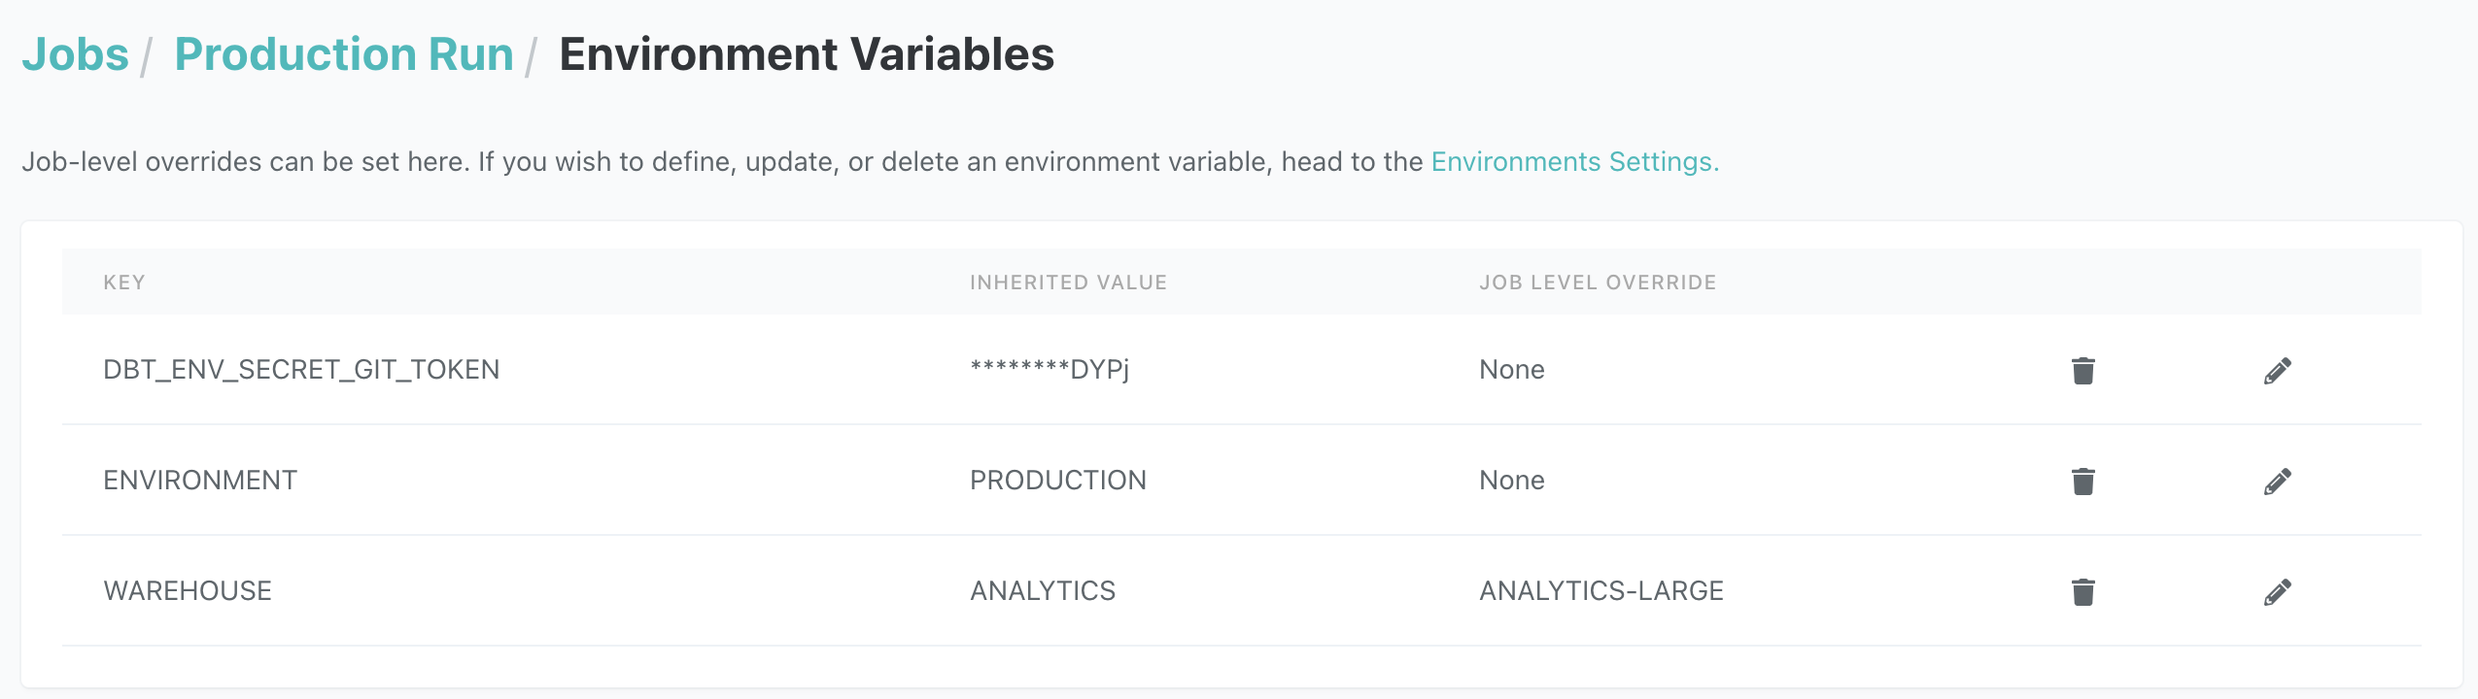
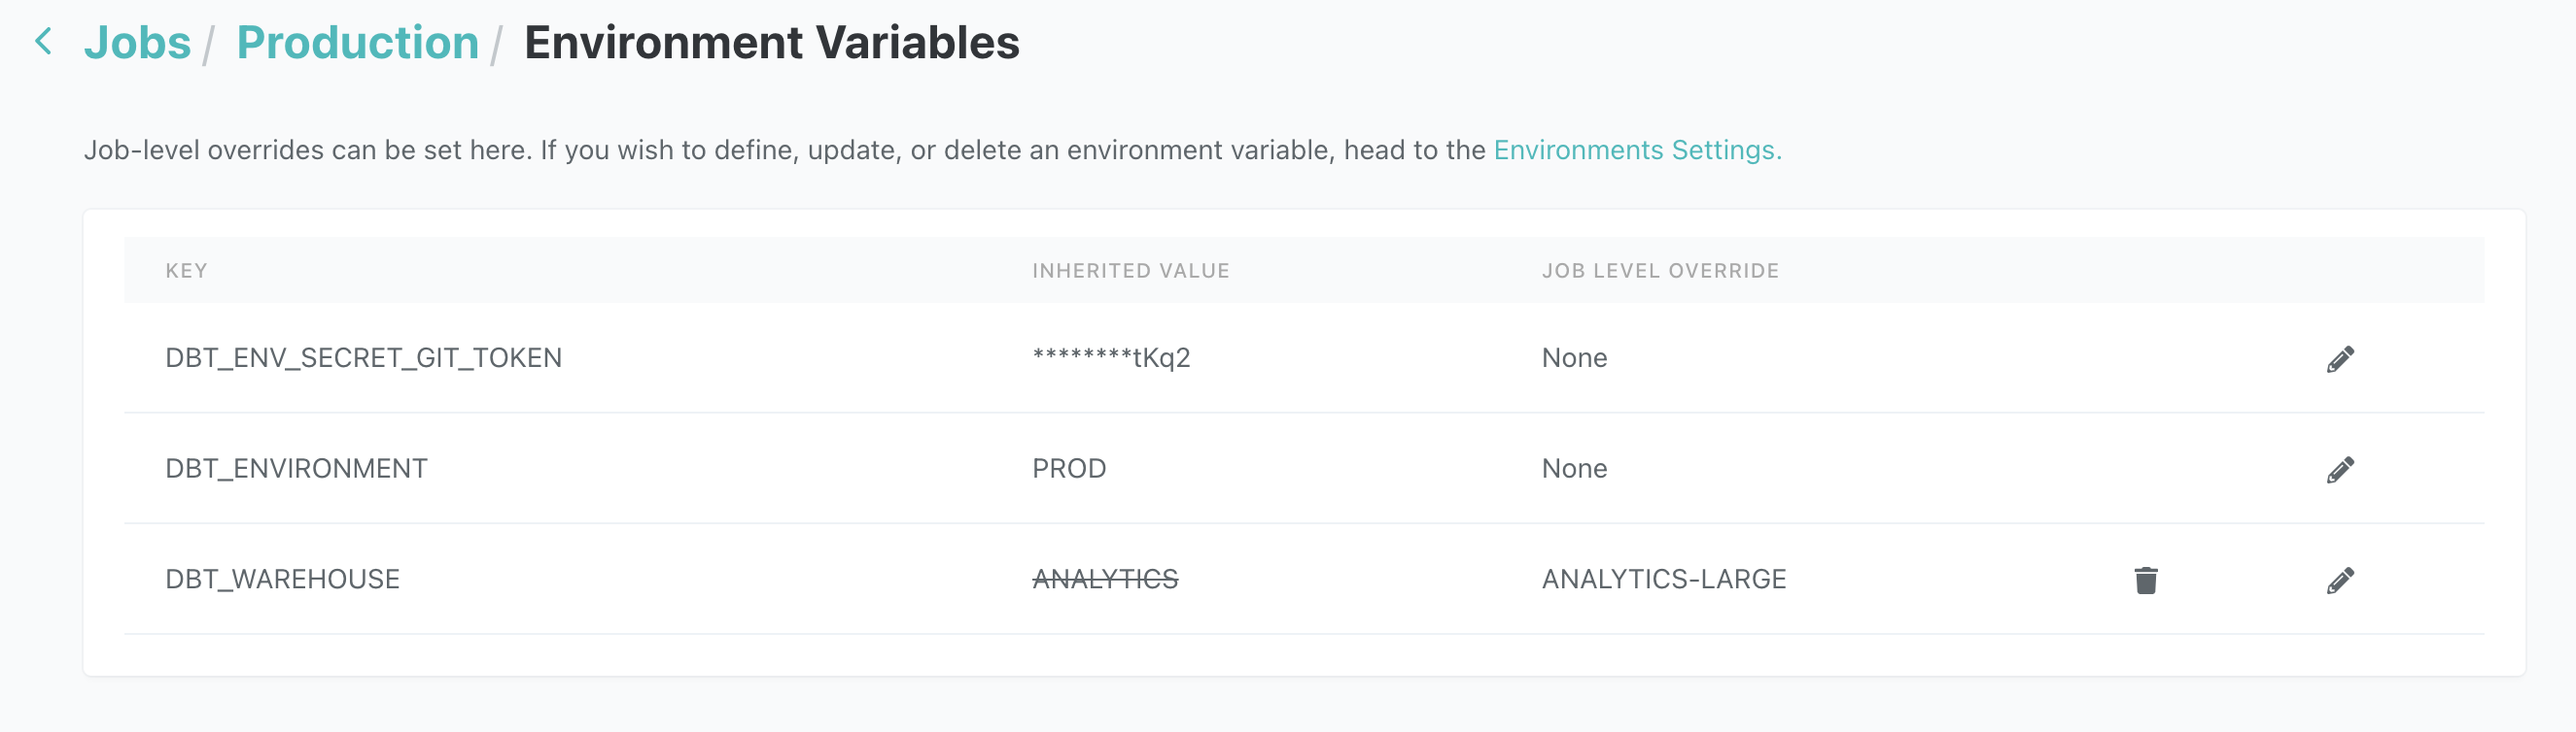
updated docs for naming convention

diff --git a/website/docs/docs/dbt-cloud/using-dbt-cloud/cloud-environment-variables.md b/website/docs/docs/dbt-cloud/using-dbt-cloud/cloud-environment-variables.md
@@ -1,5 +1,5 @@
 ---
-title: Environment variables
+title: Environment Variables
 id: "cloud-environment-variables"
 ---
 
@@ -8,7 +8,11 @@ Environment variables are currently a beta feature in dbt Cloud. If you are inte
 :::
 
 Environment variables can be used to customize the behavior of a dbt project depending on where the project is running. See the docs on
-[env_var](dbt-jinja-functions/env_var) for more information on how to call the jinja function `{{env_var('KEY','OPTIONAL_DEFAULT')}}` in your project code.
+[env_var](dbt-jinja-functions/env_var) for more information on how to call the jinja function `{{env_var('DBT_KEY','OPTIONAL_DEFAULT')}}` in your project code.
+
+:::info Environment Variable Naming and Prefixing
+Environment variables in dbt Cloud must be prefixed with either `DBT_` or `DBT_ENV_SECRET_`. Environment variables keys are uppercased and case sensitive. When referencing `{{env_var('DBT_KEY')}}` in your project's code, the key must match exactly the variable defined in dbt Cloud's UI.
+:::
 
 ### Setting and overriding environment variables
 
@@ -18,18 +22,18 @@ Environment variable values can be set in multiple places within dbt Cloud. As a
 
  <Lightbox src="/img/docs/dbt-cloud/using-dbt-cloud/Environment Variables/env-var-precdence.png" title="Environment variables order of precedence"/>
 
- - Default argument supplied to the `env_var` Jinja function in code
- - Project level default value
- - Environment level values
- - Personal and job override values
-    - Each developer can set a personal value to override values set in the developent environment 
-    - Job level values can override values set in deployment environments
+There are four levels of environment variables: 
+ 1. the optional default argument supplied to the `env_var` Jinja function in code
+ 2. a project-wide default value, which can be overridden at 
+ 3. the environment level, which can in turn be overridden again at 
+ 4. the job level (job override) or in the IDE for an individual dev (personal override).
+
 
 **Setting environment variables at the project and environment level**
 
 To set environment variables at the project and environment level, head over to the Environments section in your main navigation pane. You'll see a view to list all your environments and a view to set and update environment variables. Make sure you're in the environment variable view.
 
-<Lightbox src="/img/docs/dbt-cloud/using-dbt-cloud/Environment Variables/Environment Variables.gif" title="Environment variables tab"/>
+<Lightbox src="/img/docs/dbt-cloud/using-dbt-cloud/Environment Variables/navigate-to-env-vars.gif" title="Environment variables tab"/>
 
 
 
@@ -38,7 +42,7 @@ You'll notice there is a `Project Default` column. This is a great place to set 
 
 To the right of the `Project Default` column are all your environments. Values set at the environment level take priority over the project level default value. This is where you can tell dbt Cloud to intepret an environment value differently in your Staging vs. Production environment, as example.
 
-<Lightbox src="/img/docs/dbt-cloud/using-dbt-cloud/Environment Variables/project and environment variables view.png" title="Setting project level and environment level values"/>
+<Lightbox src="/img/docs/dbt-cloud/using-dbt-cloud/Environment Variables/project-environment-view.png" title="Setting project level and environment level values"/>
 
 
 
@@ -68,7 +72,7 @@ To supply an override, developers can edit and specify a different value to use.
 <Lightbox src="/img/docs/dbt-cloud/using-dbt-cloud/Environment Variables/personal-override.png" title="Setting a personal override value"/>
 
 :::info Appropriate coverage
-If you have not set a project level default value for every environment variable, it may be possible that dbt Cloud does not know how to interpret the value of an environment variable in all contexts. You should either supply a default value or ensure that specific environment variables are specified for all relevant environments; otherwise, dbt will throw a compilation error: "Env var required but not provided".
+If you have not set a project level default value for every environment variable, it may be possible that dbt Cloud does not know how to interpret the value of an environment variable in all contexts. In such cases, dbt will throw a compilation error: "Env var required but not provided".
 :::
 
 :::info Changing environment variables mid-session in the IDE
@@ -83,8 +87,10 @@ To refresh the IDE mid-development, click on either the green 'ready' signal or 
 
 While all environment variables are encrypted at rest in dbt Cloud, dbt Cloud has additional capabilities for managing environment variables with secret or otherwise sensitive values. If you want a particular environment variable to be scrubbed from all logs and error messages, in addition to obfuscating the value in the UI, you can prefix the key with `DBT_ENV_SECRET_`. This functionality is supported from `dbt v0.21.0` and on. 
 
+
 <Lightbox src="/img/docs/dbt-cloud/using-dbt-cloud/Environment Variables/DBT_ENV_SECRET.png" title="DBT_ENV_SECRET prefix obfuscation"/>
 
+**Note**: An environment variable can be used to store a [git token for repo cloning](/cloud-environment-variables#clone-private-packages). We recommend you make the git token's permissions read only in order to practice good security hygiene. If a user were to unintentially write the environment variable storing the token to the database, the token would be exposed.
 
 ### Special deployment environment variables
 
@@ -108,14 +114,14 @@ PR builds triggered via a webhook_
 
 ### Example usage
 
-Environment variables can be used in many ways, and they give you the power and flexibility to do what you want to do, more easily in dbt Cloud.
+Environment variables can be used in many ways, and they give you the power and flexibility to do what you want to do more easily in dbt Cloud.
 
 #### Clone private packages
 Now that you can set secrets as environment variables, you can pass git tokens into your package HTTPS URLs to allow for on-the-fly cloning of private repositories. Read more about enabling [private package cloning](/building-a-dbt-project/package-management#private-packages).
 #### Dynamically set your warehouse in your Snowflake connection
 Environment variables can make it simpler to override a Snowflake virtual warehouse for specific dbt Cloud jobs.  
 
-Suppose you'd like to set your warehouse in Snowflake to different values for different jobs. You'd like to run a full-refresh job in an XL warehouse, but your incremental job only needs to run in a medium-sized warehouse. Both jobs are configured in the same dbt Cloud environment. In your connection configuration, you can use an environment variable to set the warehouse name to `{{env_var('WAREHOUSE')}}`. Then in the job configuration, different values for the `WAREHOUSE` environment variable can be specified to dynamically configure different warehouses for each workload.
+Suppose you'd like to set your warehouse in Snowflake to different values for different jobs. You'd like to run a full-refresh job in an XL warehouse, but your incremental job only needs to run in a medium-sized warehouse. Both jobs are configured in the same dbt Cloud environment. In your connection configuration, you can use an environment variable to set the warehouse name to `{{env_var('DBT_WAREHOUSE')}}`. Then in the job settings, different values for the `DBT_WAREHOUSE` environment variable can be specified to dynamically configure different warehouses for each workload.
 
 <Lightbox src="/img/docs/dbt-cloud/using-dbt-cloud/Environment Variables/warehouse-override.png" title="Adding environment variables to your connection credentials"/>
 

diff --git a/website/docs/docs/building-a-dbt-project/package-management.md b/website/docs/docs/building-a-dbt-project/package-management.md
@@ -146,13 +146,17 @@ packages:
 This method allows the user to clone via HTTPS by passing in a git token via an environment variable. Be careful of the expiration date of any token you use, as an expired token could cause a scheduled run to fail. Additionally, user tokens can create a challenge if the user ever loses access to a specific repo.
 
 
+:::info dbt Cloud Usage
+If you are using dbt Cloud, you must adhere to the naming conventions for environment variables. Environment variables in dbt Cloud must be prefixed with either `DBT_` or `DBT_ENV_SECRET_`. Environment variables keys are uppercased and case sensitive. When referencing `{{env_var('DBT_KEY')}}` in your project's code, the key must match exactly the variable defined in dbt Cloud's UI.
+::: 
+
 In GitHub:
 
 <File name='packages.yml'>
 
 ```yaml
 packages:
-  - git: "https://{{env_var('GIT_CREDENTIALS')}}@github.com/dbt-labs/awesome_repo.git" # git HTTPS URL
+  - git: "https://{{env_var('DBT_ENV_SECRET_GIT_CREDENTIAL')}}@github.com/dbt-labs/awesome_repo.git" # git HTTPS URL
 ```
 
 </File>
@@ -165,7 +169,7 @@ In GitLab:
 
 ```yaml
 packages:
-  - git: "https://{{env_var('USER_NAME')}}:{{env_var('DEPLOY_TOKEN')}}@gitlab.example.com/dbt-labs/awesome_project.git" # git HTTPS URL
+  - git: "https://{{env_var('DBT_USER_NAME')}}:{{env_var('DBT_ENV_SECRET_DEPLOY_TOKEN')}}@gitlab.example.com/dbt-labs/awesome_project.git" # git HTTPS URL
 ```
 
 </File>
@@ -178,7 +182,7 @@ In Azure DevOps:
 
 ```yaml
 packages:
-  - git: "https://{{env_var('PERSONAL_ACCESS_TOKEN')}}@dev.azure.com/dbt-labs/awesome_project/_git/awesome_repo" # git HTTPS URL
+  - git: "https://{{env_var('DBT_ENV_SECRET_PERSONAL_ACCESS_TOKEN')}}@dev.azure.com/dbt-labs/awesome_project/_git/awesome_repo" # git HTTPS URL
 ```
 
 </File>
@@ -191,7 +195,7 @@ In Bitbucket:
 
 ```yaml
 packages:
-  - git: "https://{{env_var('USER_NAME')}}:{{env_var('PERSONAL_ACCESS_TOKEN')}}@bitbucketserver.com/scm/awesome_project/awesome_repo.git" # for Bitbucket Server
+  - git: "https://{{env_var('DBT_USER_NAME')}}:{{env_var('DBT_ENV_SECRET_PERSONAL_ACCESS_TOKEN')}}@bitbucketserver.com/scm/awesome_project/awesome_repo.git" # for Bitbucket Server
 ```
 
 </File>

diff --git a/website/docs/reference/dbt-jinja-functions/env_var.md b/website/docs/reference/dbt-jinja-functions/env_var.md
@@ -46,3 +46,7 @@ models:
 </File>
 
  This can be useful to avoid compilation errors when the environment variable isn't available.
+
+:::info dbt Cloud Usage
+If you are using dbt Cloud, you must adhere to the naming conventions for environment variables. Environment variables in dbt Cloud must be prefixed with either `DBT_` or `DBT_ENV_SECRET_`. Environment variables keys are uppercased and case sensitive. When referencing `{{env_var('DBT_KEY')}}` in your project's code, the key must match exactly the variable defined in dbt Cloud's UI.
+::: 
